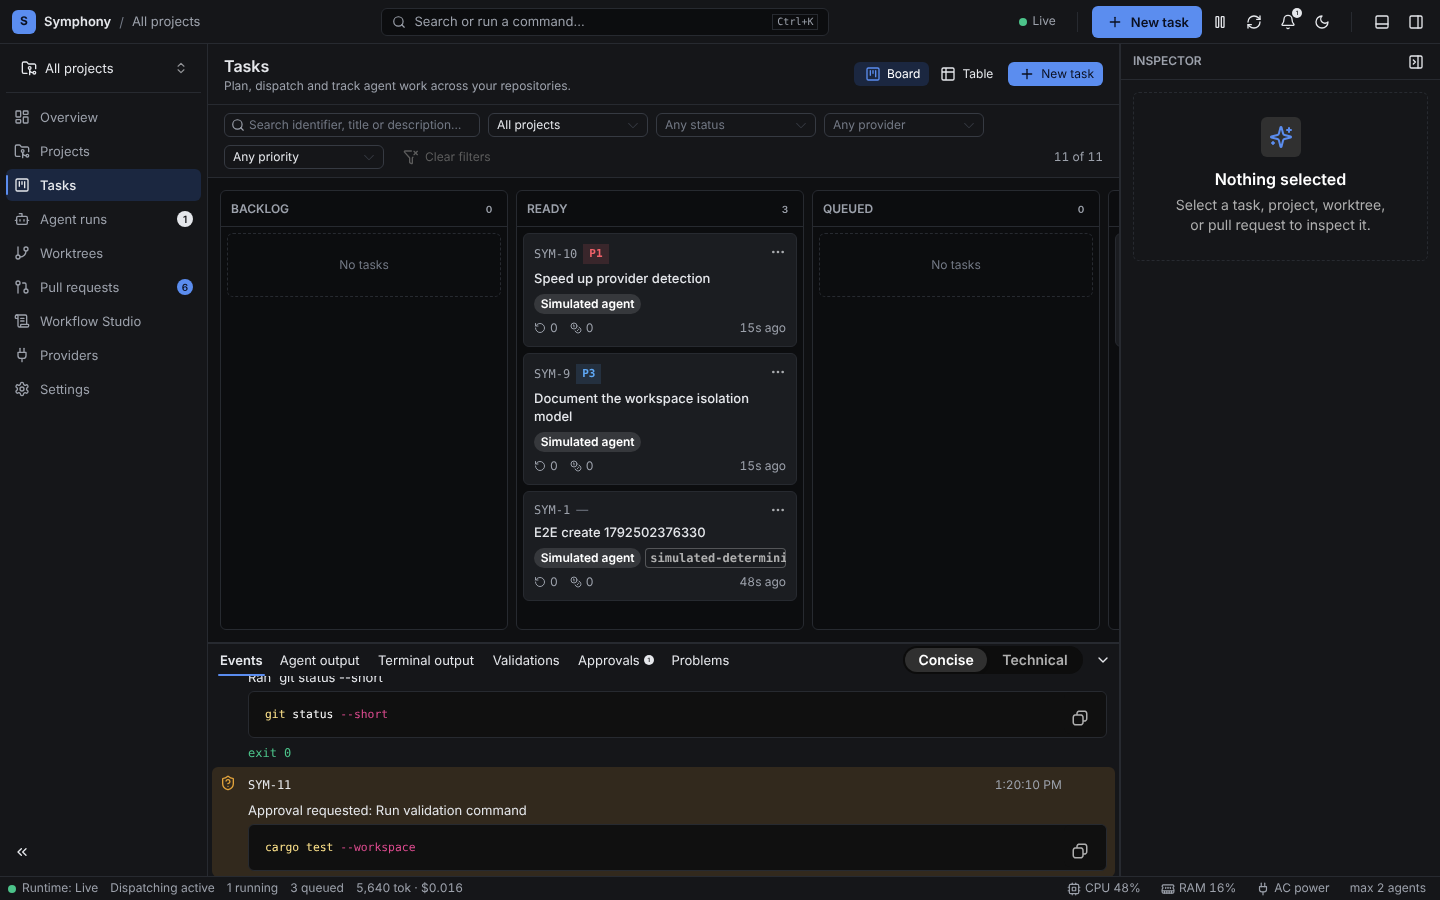
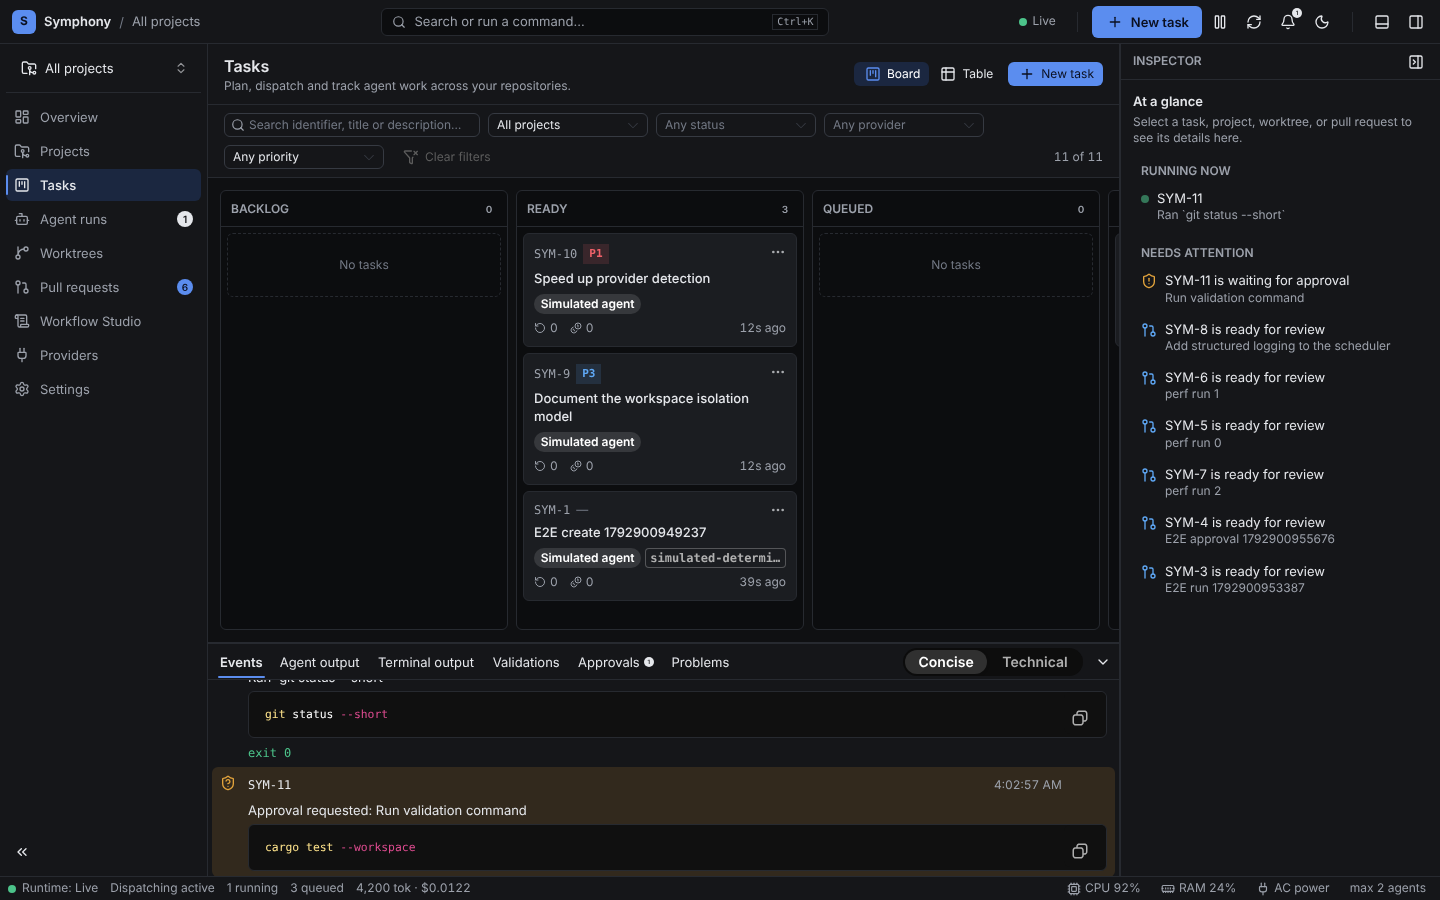
Make the fake-CLI detection tests robust; refresh documentation screenshots
The tests that write and run a fake codex/opencode now share a lock, and the
ones that expect a catalogue retry briefly: a thread that forks while a script
is being written makes its exec fail once with ETXTBSY (seen once in a full
workspace run). Screenshots are regenerated from the real runtime with the
simulated agent.

Claude-Session: https://claude.ai/code/session_01DGbSaMGjhcaiX1Tf3qVhHx

diff --git a/crates/symphony-agents/src/detection.rs b/crates/symphony-agents/src/detection.rs
@@ -624,11 +624,34 @@ mod tests {
         path
     }
 
+    /// Tests that write and run fake CLIs take this lock, so one does not fork while another still
+    /// has a freshly written script open for writing.
+    #[cfg(unix)]
+    static FAKE_CLI_LOCK: tokio::sync::Mutex<()> = tokio::sync::Mutex::const_new(());
+
+    /// A probe that is expected to succeed, retried briefly: a thread outside the lock that forks
+    /// while a script is being written makes its exec fail once with ETXTBSY.
+    #[cfg(unix)]
+    async fn eventually<F, Fut>(probe: F) -> Option<DiscoveredModels>
+    where
+        F: Fn() -> Fut,
+        Fut: std::future::Future<Output = Option<DiscoveredModels>>,
+    {
+        for _ in 0..10 {
+            if let Some(found) = probe().await {
+                return Some(found);
+            }
+            tokio::time::sleep(Duration::from_millis(50)).await;
+        }
+        None
+    }
+
     /// The exchange with a real process: initialize, initialized, then `model/list` pages until the
     /// cursor ends, skipping notifications; the app-server exits when stdin closes.
     #[cfg(unix)]
     #[tokio::test]
     async fn codex_catalogue_is_read_from_the_app_server_across_pages() {
+        let _serial = FAKE_CLI_LOCK.lock().await;
         let dir = tempfile::tempdir().unwrap();
         let codex = fake_cli(
             dir.path(),
@@ -645,7 +668,9 @@ while IFS= read -r line; do
 done
 "#,
         );
-        let found = discover_codex_models(&codex).await.expect("catalogue");
+        let found = eventually(|| discover_codex_models(&codex))
+            .await
+            .expect("catalogue");
         assert_eq!(found.models, ["m-b", "m-a", "m-c"]);
         assert_eq!(found.default.as_deref(), Some("m-b"));
         assert!(found.known.contains("m-hidden"));
@@ -654,6 +679,7 @@ done
     #[cfg(unix)]
     #[tokio::test]
     async fn a_cli_without_a_model_listing_reports_nothing() {
+        let _serial = FAKE_CLI_LOCK.lock().await;
         let dir = tempfile::tempdir().unwrap();
         let codex = fake_cli(
             dir.path(),
@@ -673,7 +699,9 @@ done
             "[ \"$1\" = models ] && printf 'x/y\\nx/z\\n'\n",
         );
         assert_eq!(
-            discover_opencode_models(&opencode).await.map(|d| d.models),
+            eventually(|| discover_opencode_models(&opencode))
+                .await
+                .map(|d| d.models),
             Some(vec!["x/y".to_string(), "x/z".to_string()])
         );
     }
